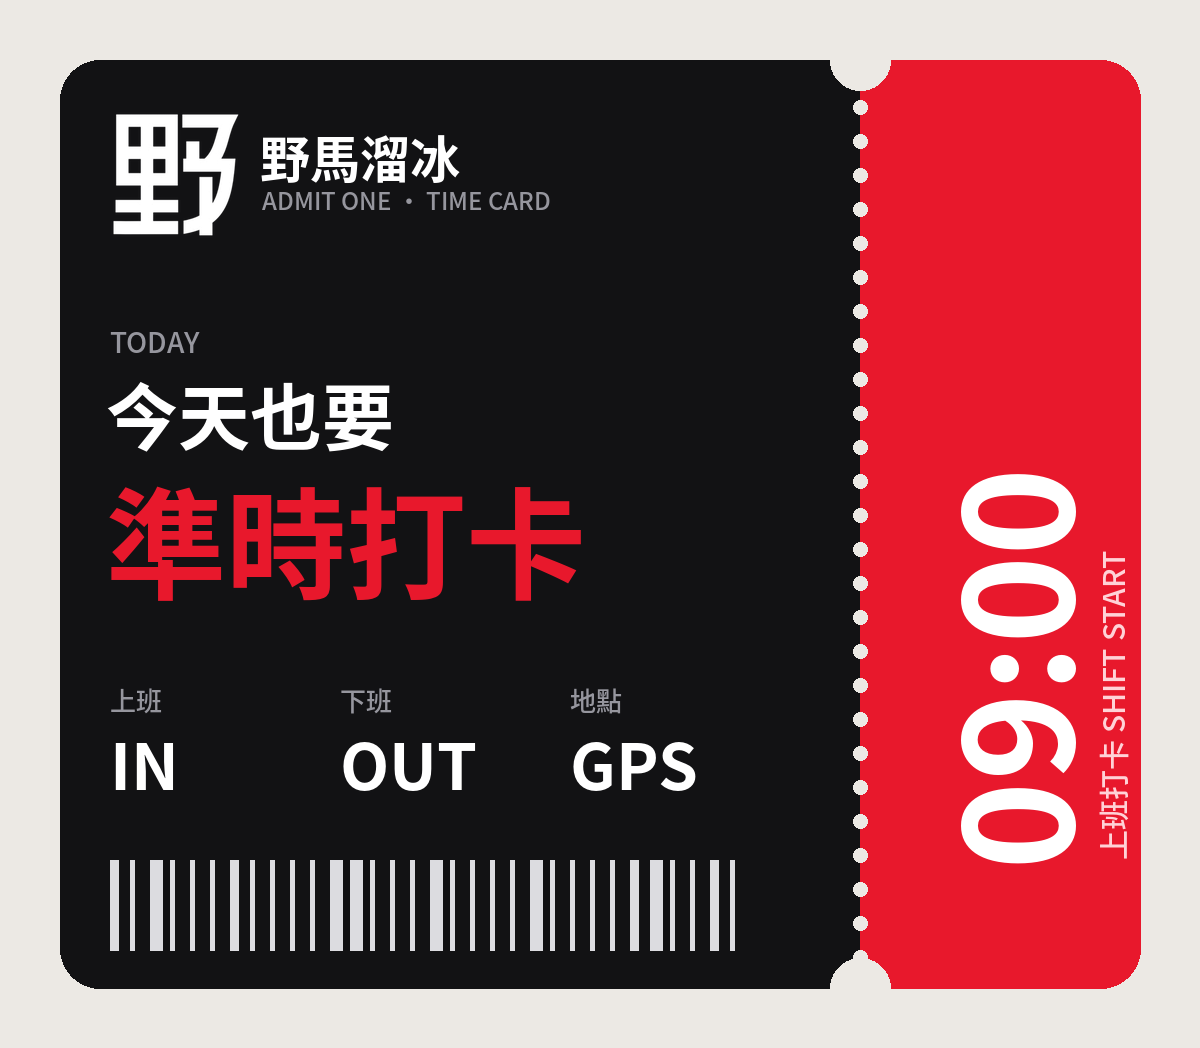
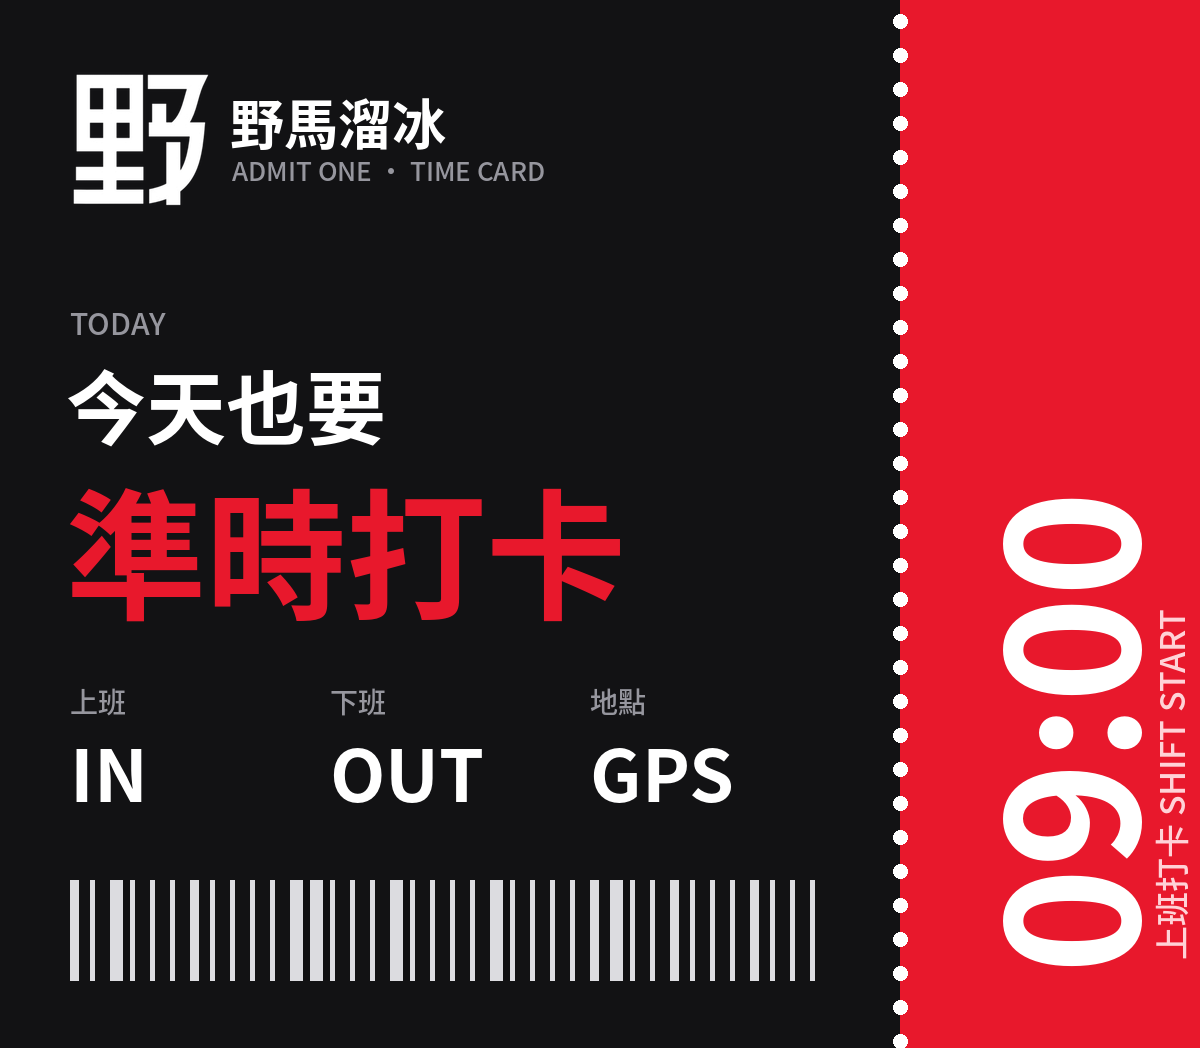
分享圖文 2-2 改滿版票券
Claude-Session: https://claude.ai/code/session_01SgUoPMs89Ch7rWoMucrYnN

diff --git a/app.js b/app.js
@@ -6,7 +6,7 @@ import {
   initializeFirestore, doc, getDoc, setDoc as _setDoc, updateDoc as _updateDoc, deleteDoc as _deleteDoc, addDoc as _addDoc,
   collection, query, where, getDocs, serverTimestamp, writeBatch as _writeBatch, deleteField, arrayUnion, arrayRemove
 } from "https://www.gstatic.com/firebasejs/10.12.2/firebase-firestore.js";
-import { firebaseConfig, LIFF_ID, WORKER_URL } from "./config.js?v=74";
+import { firebaseConfig, LIFF_ID, WORKER_URL } from "./config.js?v=75";
 
 /* 整個月的大量查詢（報表、薪資、排班）暫存 3 分鐘，省 Firestore 讀取額度；任何寫入都會清掉暫存 */
 const MEMO = new Map();
@@ -855,10 +855,10 @@ const PUNCH_URL = `https://liff.line.me/${LIFF_ID}?view=clock`;
 $("#sharePunchBtn").onclick = async () => {
   const flex = { type: "flex", altText: "今天也要準時打卡｜野馬溜冰打卡系統", contents: {
     type: "bubble",
-    hero: { type: "image", url: "https://wild-horses-skating.pages.dev/share-card.png?v=6", size: "full", aspectRatio: "1200:1048", aspectMode: "cover", action: { type: "uri", uri: PUNCH_URL } },
-    footer: { type: "box", layout: "vertical", paddingAll: "16px", backgroundColor: "#ece9e4", contents: [
+    hero: { type: "image", url: "https://wild-horses-skating.pages.dev/share-card.png?v=7", size: "full", aspectRatio: "1200:1048", aspectMode: "cover", action: { type: "uri", uri: PUNCH_URL } },
+    footer: { type: "box", layout: "vertical", paddingAll: "16px", backgroundColor: "#121214", contents: [
       { type: "button", style: "primary", color: "#e8182c", height: "md", action: { type: "uri", label: "我要打卡", uri: PUNCH_URL } },
-      { type: "text", text: "第一次使用：點自己的名字 → 輸入 Email 綁定", size: "xxs", color: "#8e8e93", align: "center", margin: "md" }] } } };
+      { type: "text", text: "第一次使用：點自己的名字 → 輸入 Email 綁定", size: "xxs", color: "#96969e", align: "center", margin: "md" }] } } };
   if (me?.role !== "admin") return;
   const ok = await getLiff();
   if (!ok || !liff.isInClient?.()) return appAlert("請在 LINE 裡打開", "圖文卡片只能在 LINE 裡分享，請從 LINE 官方帳號的選單打開打卡系統再按一次。");

diff --git a/index.html b/index.html
@@ -16,7 +16,7 @@
   <title>野馬溜冰打卡系統</title>
   <meta property="og:title" content="野馬溜冰打卡系統">
   <meta property="og:description" content="點這裡上班・下班打卡">
-  <meta property="og:image" content="https://wild-horses-skating.pages.dev/share-card.png?v=6">
+  <meta property="og:image" content="https://wild-horses-skating.pages.dev/share-card.png?v=7">
   <meta property="og:url" content="https://liff.line.me/2012318362-VOU7aFr9?view=clock">
   <meta name="twitter:card" content="summary_large_image">
   <link rel="preconnect" href="https://www.gstatic.com" crossorigin>
@@ -26,7 +26,7 @@
   <link rel="modulepreload" href="https://www.gstatic.com/firebasejs/10.12.2/firebase-app.js">
   <link rel="modulepreload" href="https://www.gstatic.com/firebasejs/10.12.2/firebase-auth.js">
   <link rel="modulepreload" href="https://www.gstatic.com/firebasejs/10.12.2/firebase-firestore.js">
-  <link rel="stylesheet" href="style.css?v=74">
+  <link rel="stylesheet" href="style.css?v=75">
 </head>
 <body>
 
@@ -786,6 +786,6 @@
     }
   }, 25000);
 </script>
-<script type="module" src="app.js?v=74"></script>
+<script type="module" src="app.js?v=75"></script>
 </body>
 </html>
